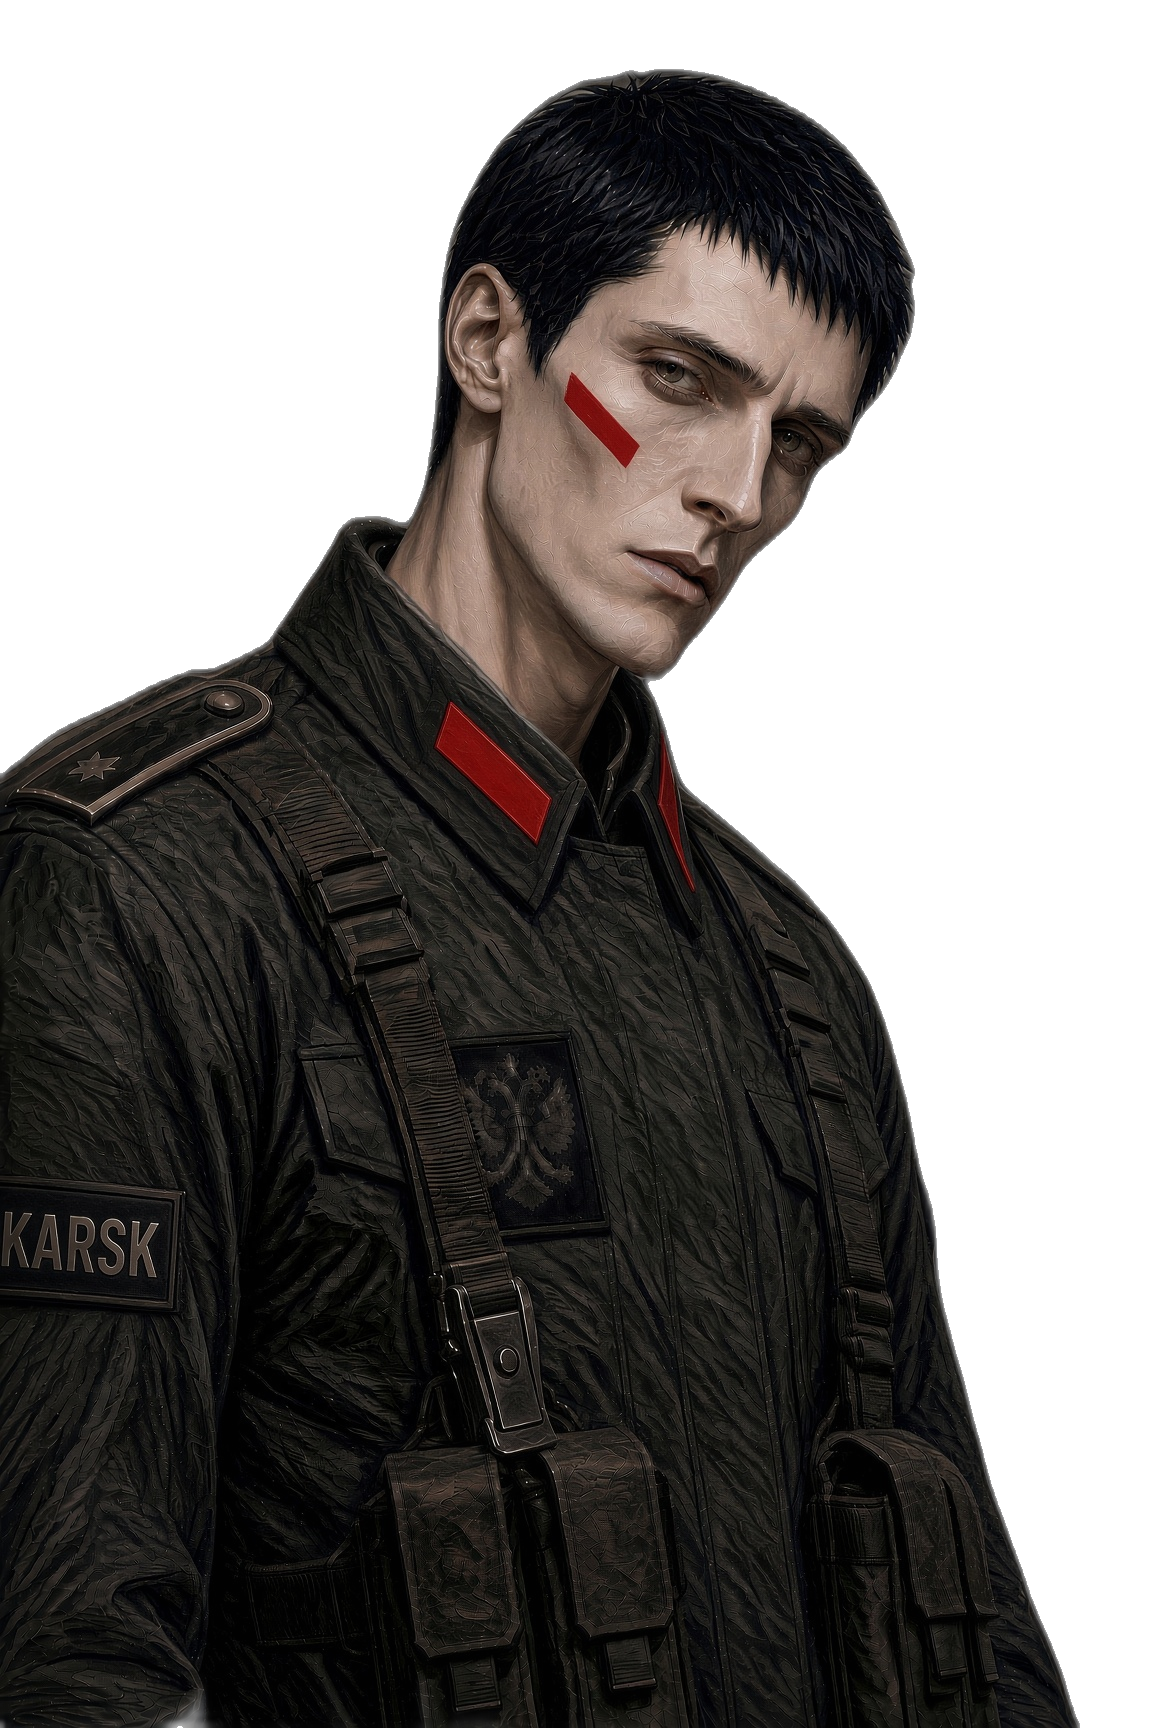
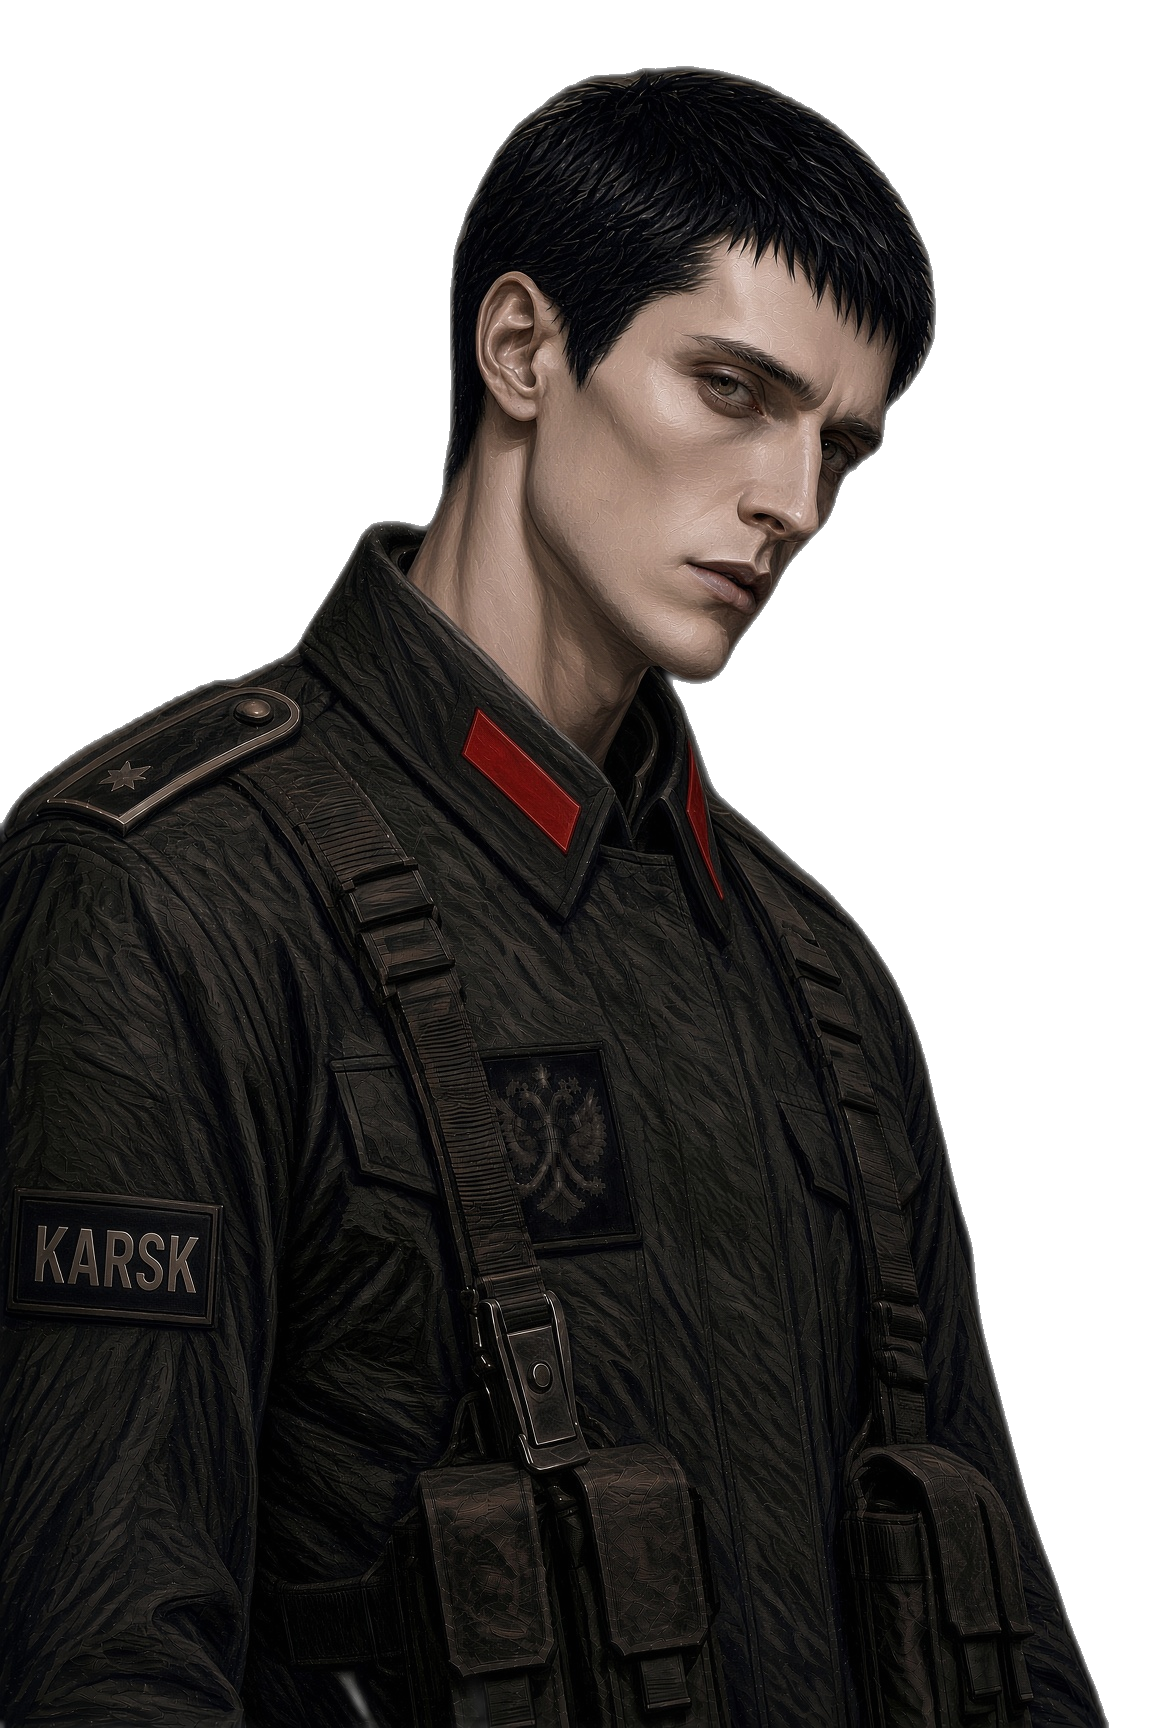
Entferne den roten Wangenstrich bei den Karsk-Leutnanten.

Changed region(s): [[0.0, 0.0312, 0.9688, 1.0], [0.0, 0.8125, 0.0312, 0.8438]]

diff --git a/Division_Command_0.32c/web/index.html b/Division_Command_0.32c/web/index.html
@@ -614,7 +614,7 @@
   <script src="js/ai/bot.js?v=032d5"></script>
   <script src="js/ui/perf.js?v=030c"></script>
   <script src="js/ui/library.js?v=030n"></script>
-  <script src="js/ui/portraits.js?v=kit11"></script>
+  <script src="js/ui/portraits.js?v=kit12"></script>
   <script src="js/ui/app.js?v=kit2"></script>
   <script src="js/ui/hand-drag.js?v=032d2"></script>
   <script src="js/net.js?v=030c"></script>

diff --git a/Division_Command_0.32c/web/js/ui/portraits.js b/Division_Command_0.32c/web/js/ui/portraits.js
@@ -71,7 +71,7 @@
   };
   var RANK_AGES = 'fhr,lt,olt,hptm,maj,obstlt,obst,bg,genmj,genlt,gen,fm,gfm';
 
-  var VER = '16';
+  var VER = '17';
 
   var FACE_FILE = {
     f01: 'Vael/male/01.png',

diff --git a/RULES_v0.5_GRUNDKONZEPT.md b/RULES_v0.5_GRUNDKONZEPT.md
@@ -989,7 +989,7 @@ Das Kadettenzeichen fällt beim Leutnant weg. Der Fähnrich trägt es schon, der
 | Rothain | Kragen | leerer Silberrahmen, weiße Kordel | Silbersterne | Goldsterne | Gold auf Rot | Eichenlaub | Eichenlaub, zweiter Kranz |
 | Steinmark | Ärmel | grauer Halbstreifen, offen | grüne Streifen | schwarze Streifen | Silberlitze | eine breite Litze | dieselbe, eine schmale darüber |
 | Vesper | Kragen | ungesiegelter Faden, graues Wachs | schwarzes Wachs | rotes Wachs | Goldwachs | Doppelsiegel | Doppelsiegel mit goldener Schnur |
-| Karsk | Wange | dunkle, tote Linse | rote Striche | rote Balken | Weiß auf Rot | weißer Ring | ein zweiter Ring |
+| Karsk | Kragen | dunkle Linse, leere Spiegel | ein roter Balken je Spiegel | rote Balken, mehr | Weiß auf Rot | weißer Ring | ein zweiter Ring |
 | Sahr | Mantelschnur | offener Knoten | Sandknoten | Kupferknoten | Türkis | schwarzer Knoten | derselbe Knoten, zweite Perle |
 | Ossar | Kragen | gerissener Knochenspan | kurze Knochenstriche | Knochen auf Rußrot | lange Rippen | Knochenring | Knochenring mit Quersteg |
 | Jetzt | Ärmel | olivgrüner Halbstreifen, offen | sandfarbene Striche | schwarze Striche | graue Litze | eine breite gedeckte Litze | dieselbe, eine schmale darüber |
